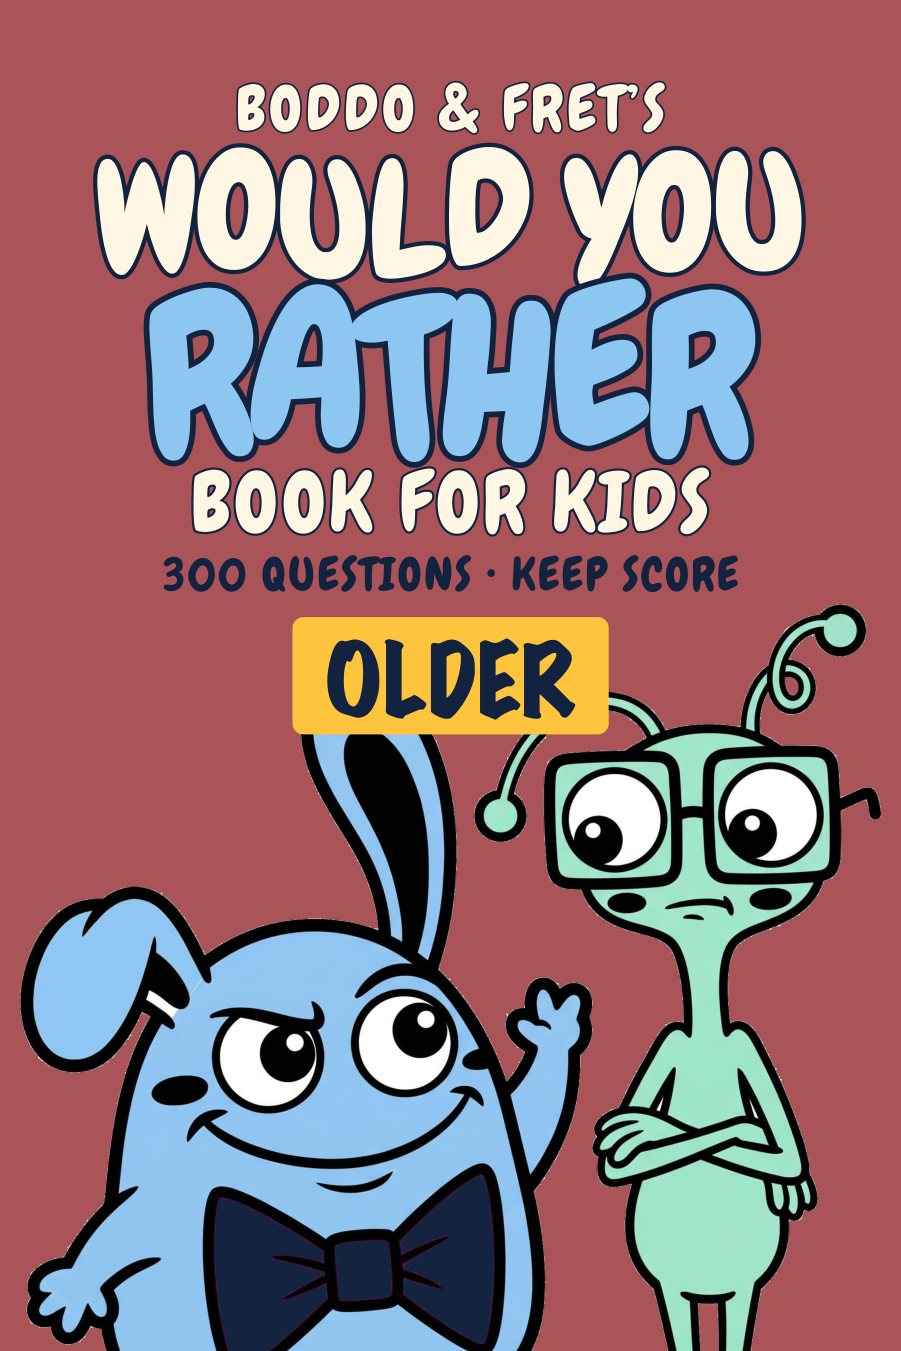
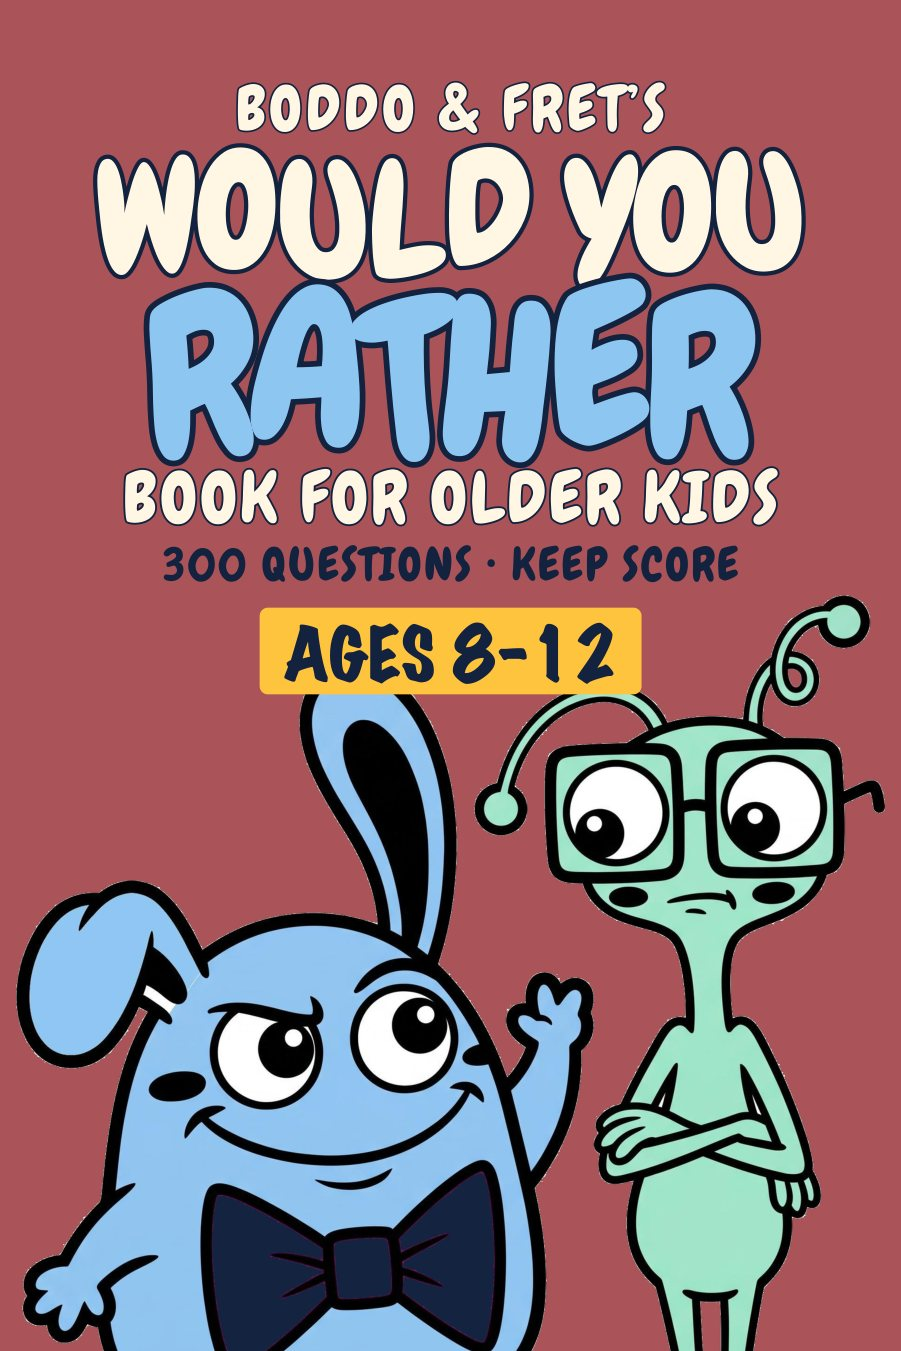
two game-book covers: the gross sock and the 8-12 sticker
wyr-gross and wyr-older both have new front covers, so their shop images are rebuilt from the current cover.pdf.

wyr-gross: Boddo now holds a stained brick sock and Fret is recoiling from something rather than from nothing, and the flavour sticker moved from cyan to sage. wyr-older: the sticker reads AGES 8-12 and the hero line is BOOK FOR OLDER KIDS again, which restores the word-for-word match with the KDP title.

Neither book is on sale. Both pages still say Coming soon and neither has an ASIN, so this changes the picture on a page that sells nothing yet.

privacy/index.html is in here for one reason and it is not a content change: build_site.py stamps "Last updated" with the BUILD date, so it moved to 21 September on its own. Worth fixing at some point -- a last-updated date that changes when nothing changed is misleading on a legal page -- but it is not this commit's job.

diff --git a/privacy/index.html b/privacy/index.html
@@ -91,7 +91,7 @@
 
     <h2>Changes</h2>
     <p>If this ever stops being true, we will change it here. Last updated
-       20 September 2026.</p>
+       21 September 2026.</p>
   </section>
 
 </main>
